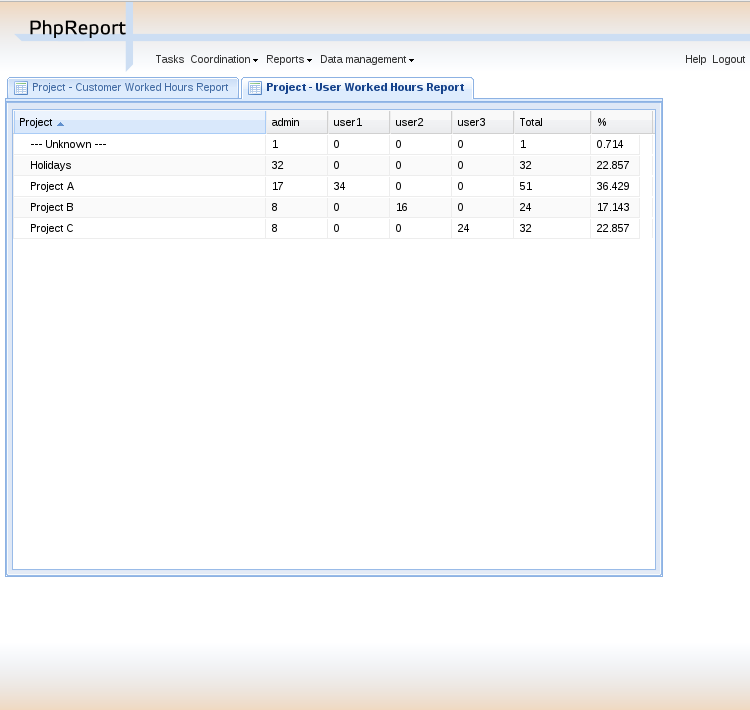
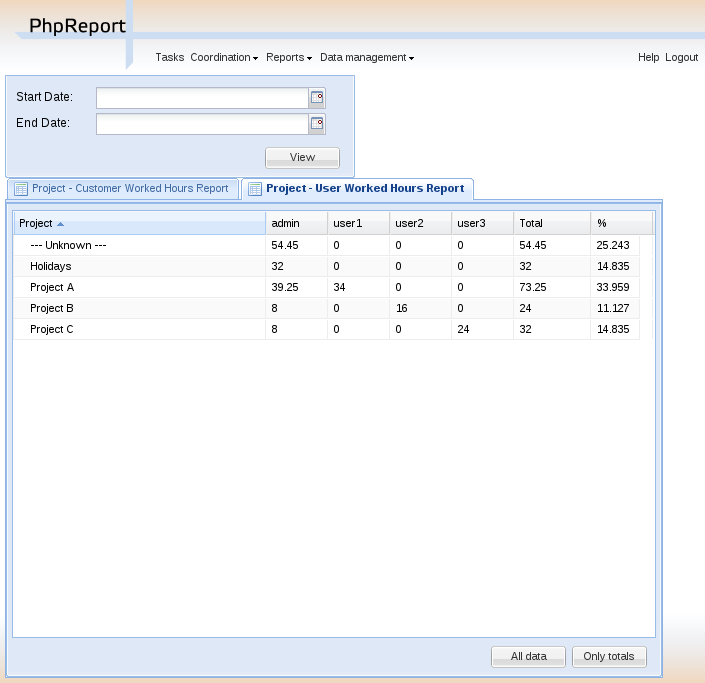
Update user documentation to reflect the changes on the projects summary report.

Changed region(s): [[0.0, 0.0, 0.9674, 1.0], [0.905, 0.0615, 0.9986, 0.0922], [0.7489, 0.3997, 0.7801, 0.4305]]

diff --git a/docs/user/reports.rst b/docs/user/reports.rst
@@ -286,10 +286,16 @@ Projects summary
 
 .. figure:: i/project-summary-screen.png
 
-This report summarizes all the work registered by the tool, split by projects
-and workers or clients.
+This report summarizes the work registered by the tool between two dates, split
+by projects and workers or clients.
 
-It consists on two grids shown in two tabs. The first tab is the project/customer
+In the top of the screen there are two date inputs to insert the report
+dates: if the start date is left empty, the default value is the date of the
+first task inserted in the system; if the end date is empty, the default value
+is the current date.
+
+The report itself consists on two grids shown in two tabs.
+The first tab is the project/customer
 report, where all the hours are split by projects and customers; rows represent
 projects and columns represent customers.
 The second tab is the project/user report, where all the hours are split by
@@ -299,3 +305,7 @@ In both grids there are two extra columns, *Total* and *Percentage*; the former
 shows the total number of hours devoted to the project (thus, it's the sum of
 all the different client/user columns) and the latter shows the proportion of
 hours of one project regarding the work done in all projects.
+
+Finally, in the bottom of the grid there are two buttons named **All data**
+and **Only totals**. The latter hides all columns excepting *Project*, *Total*
+and *Percentage*, while the former shows all columns again.
